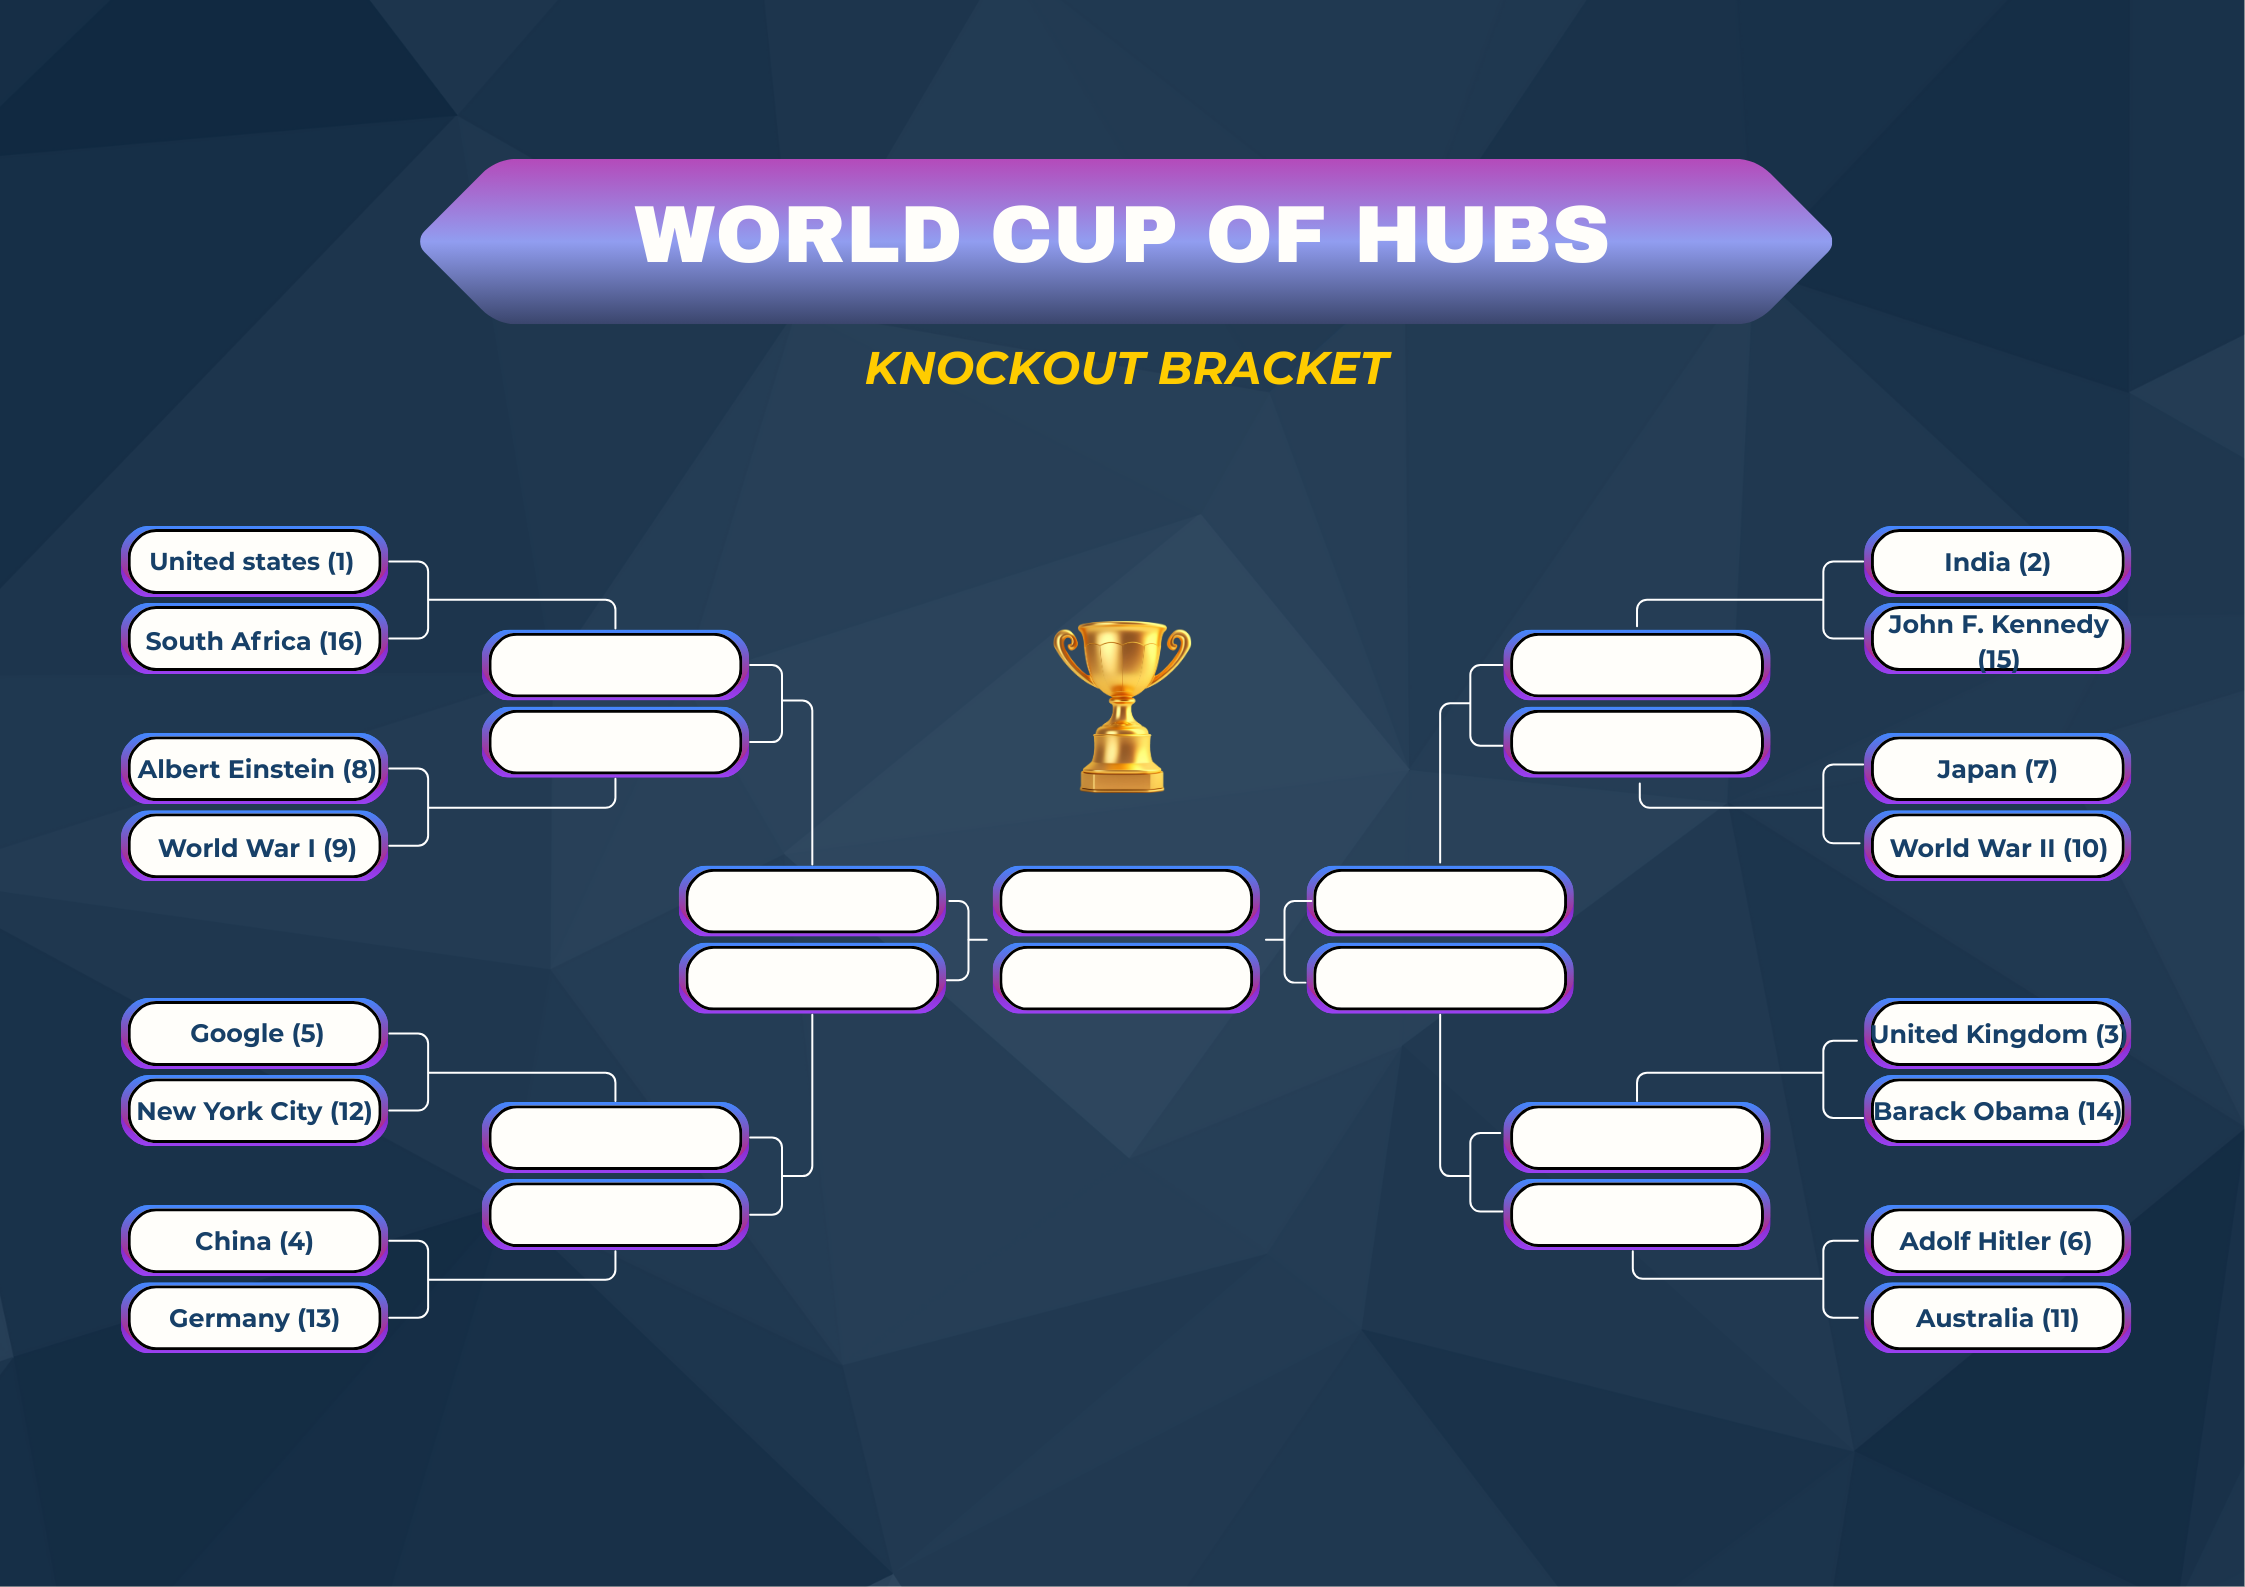
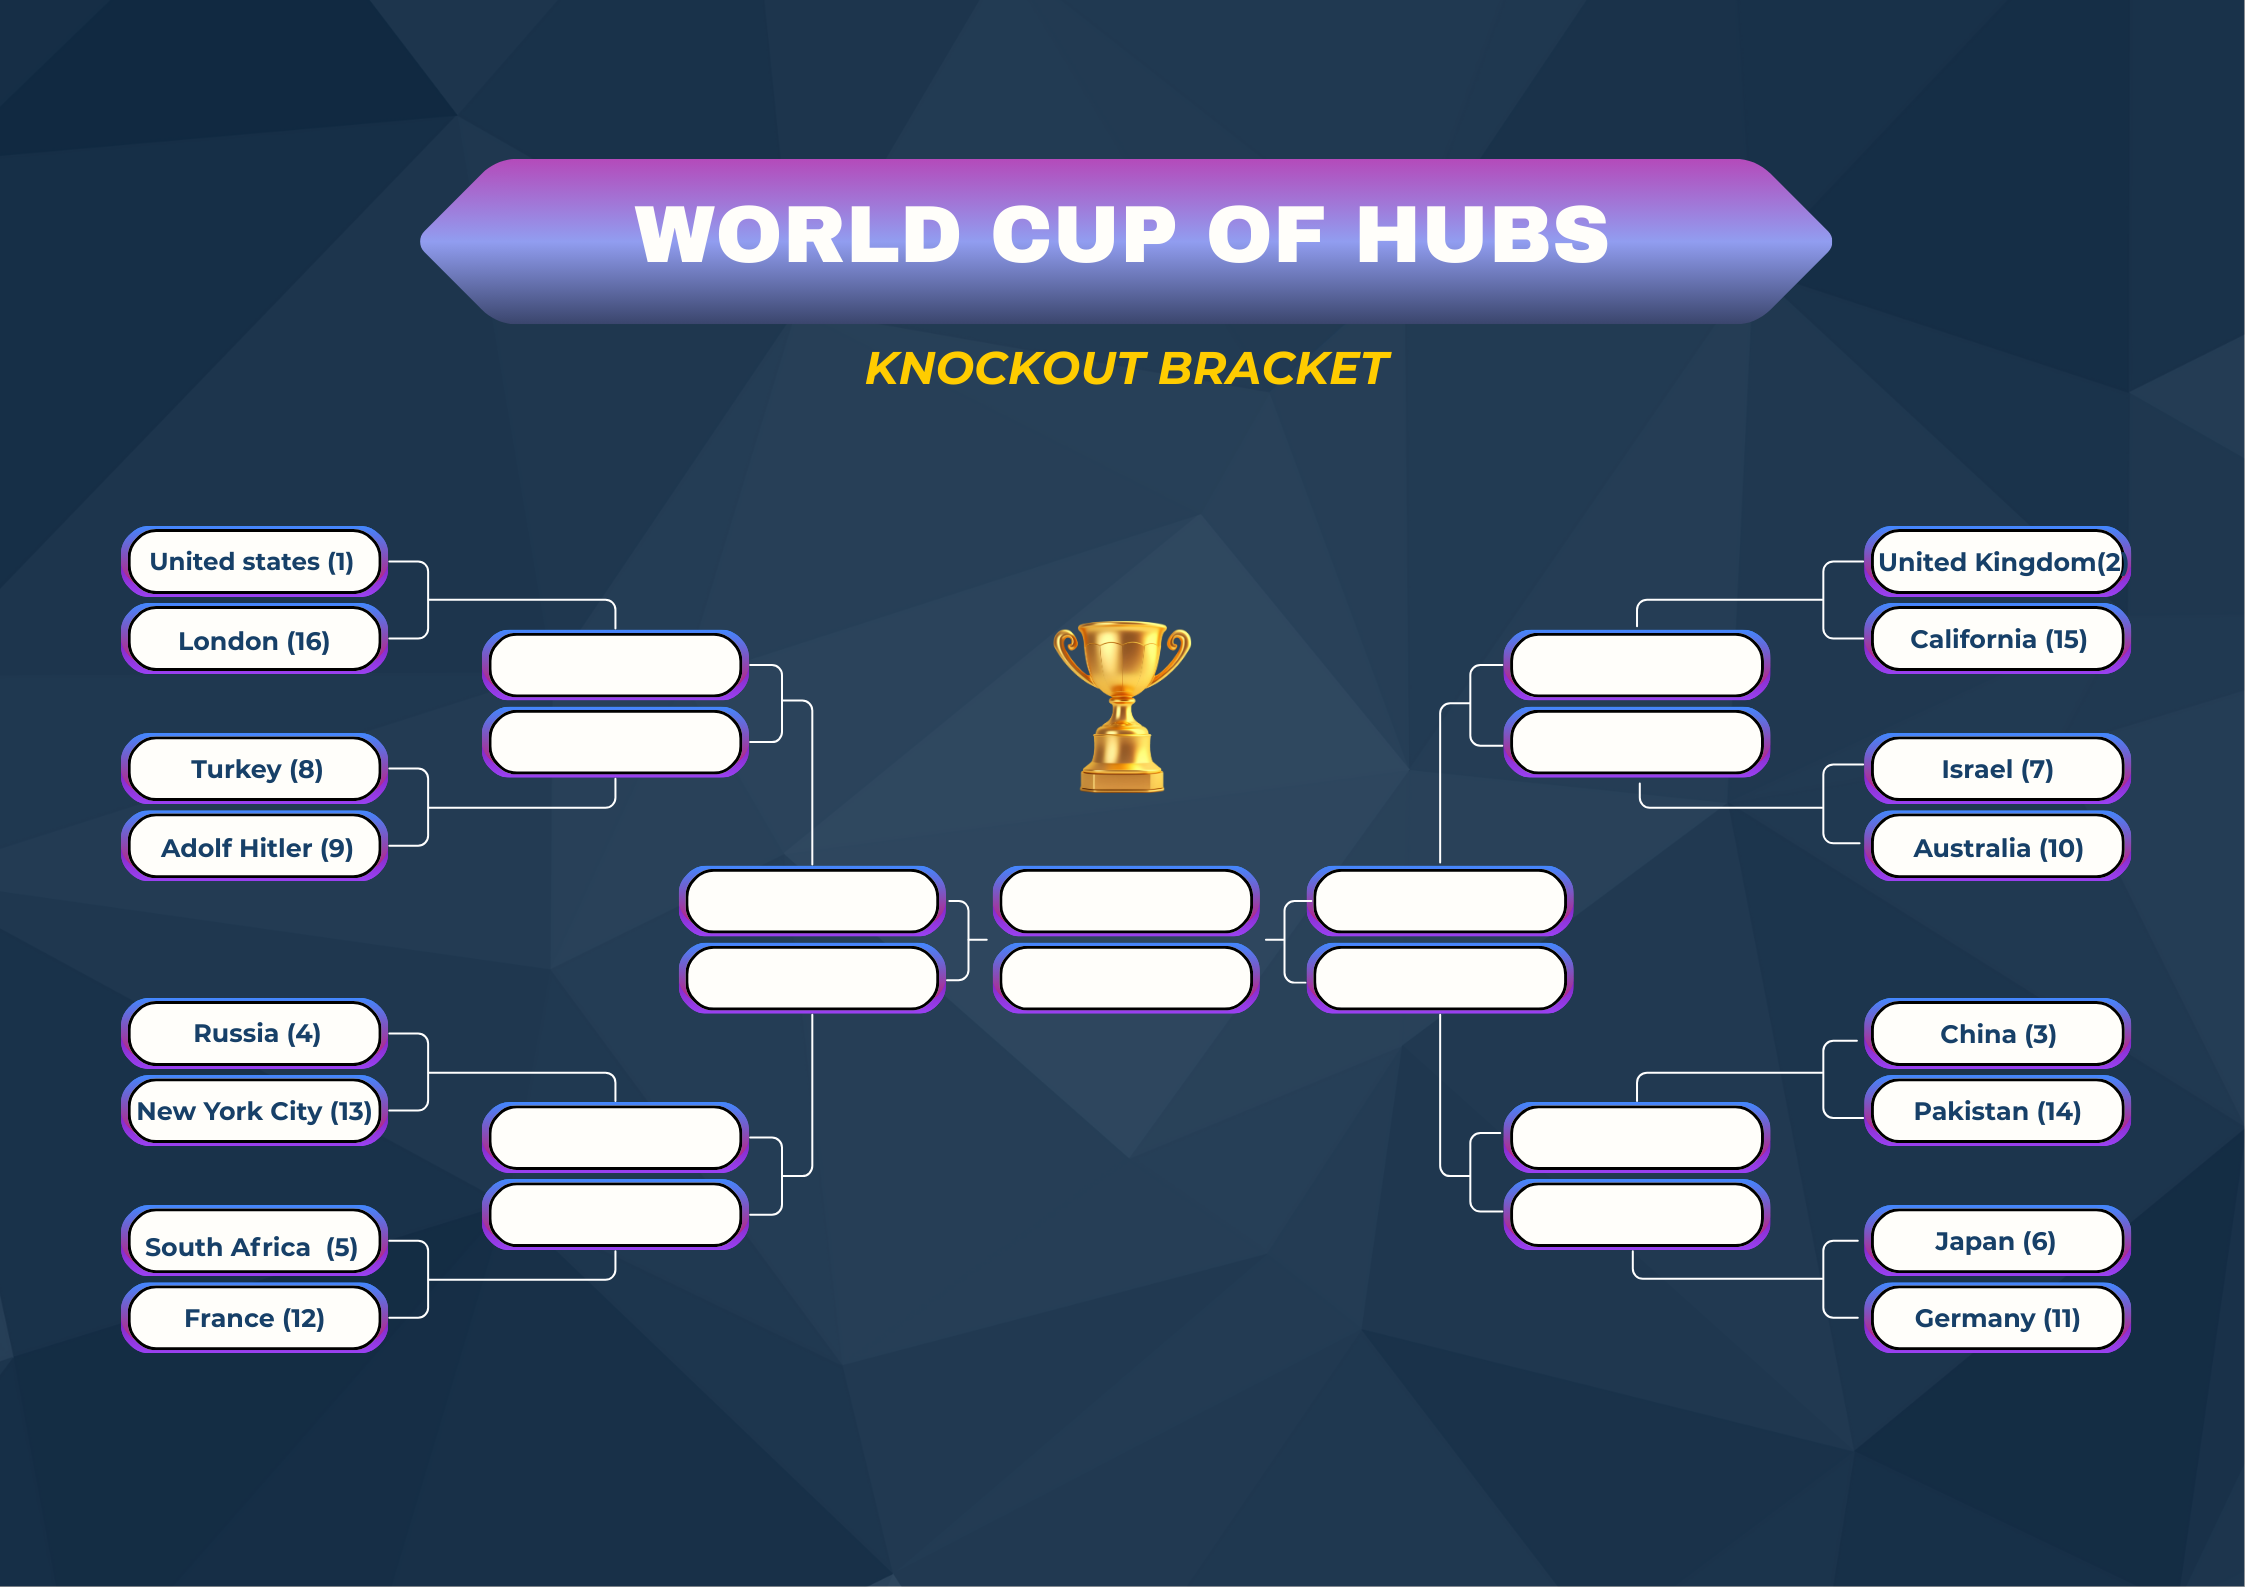
Improved story telling and images update on the competition

diff --git a/knockouts.md b/knockouts.md
@@ -15,10 +15,34 @@ In each match, hubs are evaluated head-to-head using the tournament scoring syst
 
 <!-- Placeholder: Table or bracket showing Round of 16 matchups and winners -->
 
-
-Analysis of the results.
-
 ![Quarter finals](images/quarter_final.png)
+
+**The bracket starts normal… then Russia drops a bomb**
+
+Most top seeds do their job early: **United_States (1)** and **United_Kingdom (2)** both advance, and **China (3)** also holds.
+
+But the Round of 16 has two real “plot twist” moments.
+
+The other upset is **Germany (11)** beating **Japan (6)**.  
+This one is less extreme than Russia’s win, but it matters a lot because it plants a dangerous underdog into the top half of the bracket.
+
+The biggest shock is **Russia (13)** knocking out **New_York_City (4)**.  
+That’s not a small slip, it’s a massive seeding upset (13 over 4), and it instantly breaks the expectation that a top-4 seed cruises into the late rounds.
+
+Let's have a closer look to the biggest upset of this stage :
+
+![Match analysis](images/matchup_New_York_City_vs_Russia.png)
+
+This is one of the most surprising results in the bracket: Seed 13 eliminating Seed 4.
+
+At first glance, the **Global Score is extremely close** (Russia 50.96% vs NYC 49.04%), meaning the outcome is decided on very fine margins.  
+
+Versatility is a complete tie (50–50), while **Popularity actually favors New York City (52.58% vs 47.42%)**.  
+
+However, Russia quietly dominates **Efficiency (53% vs 47%)**, which turns out to be the decisive factor.  
+This suggests that Russia’s hub structure is more compact or strategically connected, possibly due to strong centralization around political, historical, and geopolitical narratives.
+
+This upset happens because NYC’s strength is *visibility-driven*, while Russia’s is *structure-driven*. In a head-to-head comparison where efficiency matters, Russia gains just enough edge to flip the outcome.
 
 ---
 
@@ -33,9 +57,34 @@ Differences between hubs are often subtle, and small advantages can decide entir
 
 <!-- Placeholder: Quarter-Final bracket or match summary table -->
 
-Analysis of the results.
-
 ![Semi finals](images/semifinal.png)
+
+**Upsets collide, and Germany turns into the main character**
+
+Quarterfinals are where “random” underdogs usually get filtered out… but not here.
+
+On paper, **Russia (13)** already overperformed by reaching this round but then it runs into **South_Africa (5)**, and South Africa shuts the door.  
+So Russia’s run ends, but it still leaves the round as the biggest early-round disruptor.
+
+At the top, **United_States (1)** beats **Adolf_Hitler (9)** which is a crazy matchup historically, the seed and history are both respected as the seed 1 goes through.
+
+Meanwhile, the real headline is **Germany (11)** defeating **China (3)** to reach the semifinals.  
+This is a major upset (11 over 3) and it’s not a one-off anymore: Germany has now won multiple rounds against stronger seeds, so it becomes the tournament’s true “Cinderella run”.
+
+How did China lose that match-up ? 
+![Match analysis](images/matchup_Germany_vs_China.png)
+
+On paper, this matchup looks lopsided: Seed 11 versus Seed 3.  
+But the metrics tell a very different story.
+
+Germany edges China on the **Global Score (52.03% vs 47.97%)**, and this advantage is not random.  
+
+Efficiency is nearly a coin flip (50.42% vs 49.58%), and **Popularity is perfectly balanced (50–50)**, meaning the upset cannot be attributed to public bias or visibility. It is quite surprising knowing the different in populations of these two countries.
+
+Germany’s decisive advantage lies in **Versatility (54.70% vs 45.30%)**.  
+Germany acts as a connector across **many different thematic domains**, rather than being concentrated around a few dominant narratives. In hub terms, Germany likely links politics, history, economy, culture, science, and European context in a more evenly distributed way. 
+
+This is not a “lucky” upset. Germany’s win is structurally justified by a strong versatility, making this one of those results where the seeding underestimates a genuinely strong competitor.
 
 ---
 
@@ -54,17 +103,29 @@ Analysis of the results.
 
 ![Final Bracket](images/knockout_final.png)
 
----
+**The underdogs finally meet the ceiling**
 
-## The Bracket So Far
+By the semifinals, the bracket shows a classic pattern: the best seeds tend to regain control.
 
-With the semi-finals completed, the path to the final is fully revealed.
+**United_States (1)** beats **South_Africa (5)**.  
+South Africa had a solid, consistent run (and benefited from the bracket opening when Russia removed NYC), but the #1 seed ends the story.
 
-Below is the complete knockout bracket, showing the progression from the Round of 16 to the final matchup.
+Then there’s the other matchup: **United_Kingdom (2) vs Germany (11)**.  
+Germany’s Cinderella run meets an elite seed and the UK stops it. What a run from our underdog but the opponent was this time too good for them and the game was not even close. Germany still went from the repechage group to the semi-finals.
 
-<!-- Placeholder: Full knockout bracket diagram with completed results -->
+![Match analysis](images/matchup_Germany_vs_United_Kingdom.png)
 
-We hope your candidate did a good job, he is maybe even in the Grand Final !
+After defeating China, Germany runs into a very different opponent.
+
+Against the United Kingdom, Germany actually performs **better in Efficiency (51.20% vs 48.80%)**. This is a surprising result: the UK is a top-2 seed, yet Germany appears to have a slightly tighter or more optimally connected local structure. This suggests Germany’s internal link density or hub compactness is genuinely strong.
+However, the match is decided elsewhere.
+
+The UK dominates **Popularity (66.78% vs 33.22%)**, an overwhelming gap that Germany cannot compensate for.  
+On top of that, the UK also leads in **Versatility (53.28% vs 46.72%)**, neutralizing the dimension that carried Germany in the previous round.
+
+The **Global Score reflects this shift clearly**: 54.37% for the UK versus 45.63% for Germany.
+
+Germany hits a structural ceiling. It can outperform strong but narrower hubs (like China), but once faced with a hub that combines breadth *and* massive popularity, its path ends.
 
 ---
 

diff --git a/start-tournament.md b/start-tournament.md
@@ -11,7 +11,6 @@ Below are the final standings of the group stage.
 <!-- Placeholder: Group-stage result tables (normalized scores only) -->
 ![Group Stage Results](images/group_stage_results.png)
 
-Analyze the results with some suprise and depending on the seeding.
 
 ---
 
@@ -62,7 +61,16 @@ The bracket is constructed so that:
 
 It is time ot discover the final table of the tournament !
 
-<!-- Placeholder: Final knockout bracket diagram showing seeding -->
+![Knockout Bracket](images/knockout.png)
+
+The Round of 16 is the first moment where the bracket really starts to take shape.  
+Big favorites like the **United States (1)**, **United Kingdom (2)**, and **China (3)** enter the competition with high expectations, facing lower-seeded opponents that look weaker on paper.
+
+However, not all matches are so clear. Some games are very close in seeding, such as **Turkey (8) vs Adolf Hitler (9)** and **Israel (7) vs Australia (10)**, where a small difference could change everything.
+
+There are also interesting and symbolic matchups. **New York City (4) vs Russia (13)** is strong geopolitical matchup, while **Japan (6) vs Germany (11)** is another shock of cultures.
+
+This round sets the tone for the tournament: top seeds try to avoid surprises, while lower seeds look for one chance to create an upset.
 
 ---
 

diff --git a/betting-floor.md b/betting-floor.md
@@ -326,7 +326,7 @@ ul { margin-top: 10px; }
 
 ### Now, let's see some betting strategies example
 
-We always assume you have 80\$ and bet 10\$ on each of 8 articles.
+We always assume you have $80$ and bet $10$ on each of 8 articles.
 
 #### Strategy 1 : Follow the bookmakers
 
